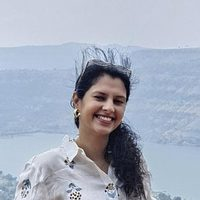
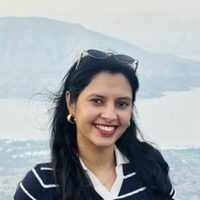
Add files via upload

diff --git a/samarpan-d9c3/index.html b/samarpan-d9c3/index.html
@@ -8,10 +8,10 @@
 <link rel="icon" href="data:,">
 <meta property="og:type" content="website">
 <meta property="og:site_name" content="Kittu’s 30th">
-<meta property="og:title" content="Samarpan, you’re invited to Kittu’s 30th 🎉">
-<meta property="og:description" content="Tap to open your invitation. Sunday, 1 November 2026, 7:30 PM.">
+<meta property="og:title" content="𝑷𝒔𝒔𝒕 𝑺𝒂𝒎𝒂𝒓𝒑𝒂𝒏... Kittu is turning 30 and you have officially been summoned 🎉">
+<meta property="og:description" content="Tap the link, press the shiny button, and thank me later 👇">
 <meta property="og:url" content="https://vihan1691.github.io/kittu30/samarpan-d9c3/">
-<meta property="og:image" content="https://vihan1691.github.io/kittu30/assets/og.jpg">
+<meta property="og:image" content="https://vihan1691.github.io/kittu30/assets/og-v3.jpg">
 <meta property="og:image:width" content="1200">
 <meta property="og:image:height" content="630">
 <meta name="twitter:card" content="summary_large_image">

diff --git a/anirban-j6e5/index.html b/anirban-j6e5/index.html
@@ -8,10 +8,10 @@
 <link rel="icon" href="data:,">
 <meta property="og:type" content="website">
 <meta property="og:site_name" content="Kittu’s 30th">
-<meta property="og:title" content="Anirban, you’re invited to Kittu’s 30th 🎉">
-<meta property="og:description" content="Tap to open your invitation. Sunday, 1 November 2026, 7:30 PM.">
+<meta property="og:title" content="𝑷𝒔𝒔𝒕 𝑨𝒏𝒊𝒓𝒃𝒂𝒏... Kittu is turning 30 and you have officially been summoned 🎉">
+<meta property="og:description" content="Tap the link, press the shiny button, and thank me later 👇">
 <meta property="og:url" content="https://vihan1691.github.io/kittu30/anirban-j6e5/">
-<meta property="og:image" content="https://vihan1691.github.io/kittu30/assets/og.jpg">
+<meta property="og:image" content="https://vihan1691.github.io/kittu30/assets/og-v3.jpg">
 <meta property="og:image:width" content="1200">
 <meta property="og:image:height" content="630">
 <meta name="twitter:card" content="summary_large_image">

diff --git a/alapan-z5r4/index.html b/alapan-z5r4/index.html
@@ -8,10 +8,10 @@
 <link rel="icon" href="data:,">
 <meta property="og:type" content="website">
 <meta property="og:site_name" content="Kittu’s 30th">
-<meta property="og:title" content="Alapan, you’re invited to Kittu’s 30th 🎉">
-<meta property="og:description" content="Tap to open your invitation. Sunday, 1 November 2026, 7:30 PM.">
+<meta property="og:title" content="𝑷𝒔𝒔𝒕 𝑨𝒍𝒂𝒑𝒂𝒏... Kittu is turning 30 and you have officially been summoned 🎉">
+<meta property="og:description" content="Tap the link, press the shiny button, and thank me later 👇">
 <meta property="og:url" content="https://vihan1691.github.io/kittu30/alapan-z5r4/">
-<meta property="og:image" content="https://vihan1691.github.io/kittu30/assets/og.jpg">
+<meta property="og:image" content="https://vihan1691.github.io/kittu30/assets/og-v3.jpg">
 <meta property="og:image:width" content="1200">
 <meta property="og:image:height" content="630">
 <meta name="twitter:card" content="summary_large_image">

diff --git a/sakshi-p4v7/index.html b/sakshi-p4v7/index.html
@@ -8,10 +8,10 @@
 <link rel="icon" href="data:,">
 <meta property="og:type" content="website">
 <meta property="og:site_name" content="Kittu’s 30th">
-<meta property="og:title" content="Sakshi, you’re invited to Kittu’s 30th 🎉">
-<meta property="og:description" content="Tap to open your invitation. Sunday, 1 November 2026, 7:30 PM.">
+<meta property="og:title" content="𝑷𝒔𝒔𝒕 𝑺𝒂𝒌𝒔𝒉𝒊... Kittu is turning 30 and you have officially been summoned 🎉">
+<meta property="og:description" content="Tap the link, press the shiny button, and thank me later 👇">
 <meta property="og:url" content="https://vihan1691.github.io/kittu30/sakshi-p4v7/">
-<meta property="og:image" content="https://vihan1691.github.io/kittu30/assets/og.jpg">
+<meta property="og:image" content="https://vihan1691.github.io/kittu30/assets/og-v3.jpg">
 <meta property="og:image:width" content="1200">
 <meta property="og:image:height" content="630">
 <meta name="twitter:card" content="summary_large_image">

diff --git a/varsha-k3m9/index.html b/varsha-k3m9/index.html
@@ -8,10 +8,10 @@
 <link rel="icon" href="data:,">
 <meta property="og:type" content="website">
 <meta property="og:site_name" content="Kittu’s 30th">
-<meta property="og:title" content="Varsha, you’re invited to Kittu’s 30th 🎉">
-<meta property="og:description" content="Tap to open your invitation. Sunday, 1 November 2026, 7:30 PM.">
+<meta property="og:title" content="𝑷𝒔𝒔𝒕 𝑽𝒂𝒓𝒔𝒉𝒂... Kittu is turning 30 and you have officially been summoned 🎉">
+<meta property="og:description" content="Tap the link, press the shiny button, and thank me later 👇">
 <meta property="og:url" content="https://vihan1691.github.io/kittu30/varsha-k3m9/">
-<meta property="og:image" content="https://vihan1691.github.io/kittu30/assets/og.jpg">
+<meta property="og:image" content="https://vihan1691.github.io/kittu30/assets/og-v3.jpg">
 <meta property="og:image:width" content="1200">
 <meta property="og:image:height" content="630">
 <meta name="twitter:card" content="summary_large_image">

diff --git a/atul-b2n8/index.html b/atul-b2n8/index.html
@@ -8,10 +8,10 @@
 <link rel="icon" href="data:,">
 <meta property="og:type" content="website">
 <meta property="og:site_name" content="Kittu’s 30th">
-<meta property="og:title" content="Atul, you’re invited to Kittu’s 30th 🎉">
-<meta property="og:description" content="Tap to open your invitation. Sunday, 1 November 2026, 7:30 PM.">
+<meta property="og:title" content="𝑷𝒔𝒔𝒕 𝑨𝒕𝒖𝒍... Kittu is turning 30 and you have officially been summoned 🎉">
+<meta property="og:description" content="Tap the link, press the shiny button, and thank me later 👇">
 <meta property="og:url" content="https://vihan1691.github.io/kittu30/atul-b2n8/">
-<meta property="og:image" content="https://vihan1691.github.io/kittu30/assets/og.jpg">
+<meta property="og:image" content="https://vihan1691.github.io/kittu30/assets/og-v3.jpg">
 <meta property="og:image:width" content="1200">
 <meta property="og:image:height" content="630">
 <meta name="twitter:card" content="summary_large_image">

diff --git a/miku-h7t6/index.html b/miku-h7t6/index.html
@@ -8,10 +8,10 @@
 <link rel="icon" href="data:,">
 <meta property="og:type" content="website">
 <meta property="og:site_name" content="Kittu’s 30th">
-<meta property="og:title" content="Miku, you’re invited to Kittu’s 30th 🎉">
-<meta property="og:description" content="Tap to open your invitation. Sunday, 1 November 2026, 7:30 PM.">
+<meta property="og:title" content="𝑷𝒔𝒔𝒕 𝑴𝒊𝒌𝒖... Kittu is turning 30 and you have officially been summoned 🎉">
+<meta property="og:description" content="Tap the link, press the shiny button, and thank me later 👇">
 <meta property="og:url" content="https://vihan1691.github.io/kittu30/miku-h7t6/">
-<meta property="og:image" content="https://vihan1691.github.io/kittu30/assets/og.jpg">
+<meta property="og:image" content="https://vihan1691.github.io/kittu30/assets/og-v3.jpg">
 <meta property="og:image:width" content="1200">
 <meta property="og:image:height" content="630">
 <meta name="twitter:card" content="summary_large_image">

diff --git a/kd-q8w2/index.html b/kd-q8w2/index.html
@@ -8,10 +8,10 @@
 <link rel="icon" href="data:,">
 <meta property="og:type" content="website">
 <meta property="og:site_name" content="Kittu’s 30th">
-<meta property="og:title" content="KD, you’re invited to Kittu’s 30th 🎉">
-<meta property="og:description" content="Tap to open your invitation. Sunday, 1 November 2026, 7:30 PM.">
+<meta property="og:title" content="𝑷𝒔𝒔𝒕 𝑲𝑫... Kittu is turning 30 and you have officially been summoned 🎉">
+<meta property="og:description" content="Tap the link, press the shiny button, and thank me later 👇">
 <meta property="og:url" content="https://vihan1691.github.io/kittu30/kd-q8w2/">
-<meta property="og:image" content="https://vihan1691.github.io/kittu30/assets/og.jpg">
+<meta property="og:image" content="https://vihan1691.github.io/kittu30/assets/og-v3.jpg">
 <meta property="og:image:width" content="1200">
 <meta property="og:image:height" content="630">
 <meta name="twitter:card" content="summary_large_image">

diff --git a/index.html b/index.html
@@ -8,10 +8,10 @@
 <link rel="icon" href="data:,">
 <meta property="og:type" content="website">
 <meta property="og:site_name" content="Kittu’s 30th">
-<meta property="og:title" content="You’re invited to Kittu’s 30th 🎉">
-<meta property="og:description" content="Tap to open your invitation. Sunday, 1 November 2026, 7:30 PM.">
+<meta property="og:title" content="𝑷𝒔𝒔𝒕... Kittu is turning 30 and you have officially been summoned 🎉">
+<meta property="og:description" content="Tap the link, press the shiny button, and thank me later 👇">
 <meta property="og:url" content="https://vihan1691.github.io/kittu30/">
-<meta property="og:image" content="https://vihan1691.github.io/kittu30/assets/og.jpg">
+<meta property="og:image" content="https://vihan1691.github.io/kittu30/assets/og-v3.jpg">
 <meta property="og:image:width" content="1200">
 <meta property="og:image:height" content="630">
 <meta name="twitter:card" content="summary_large_image">
